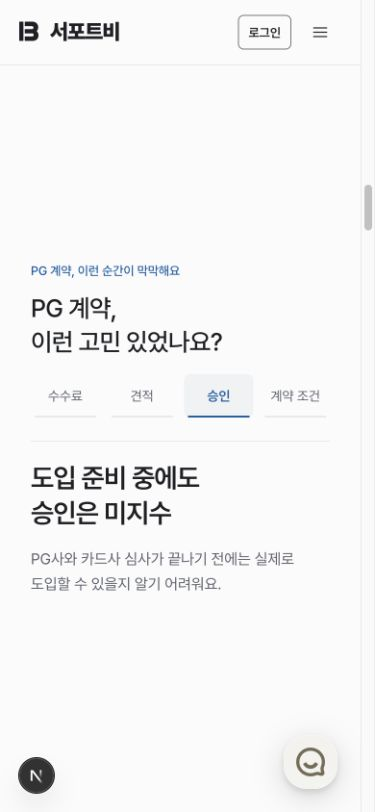
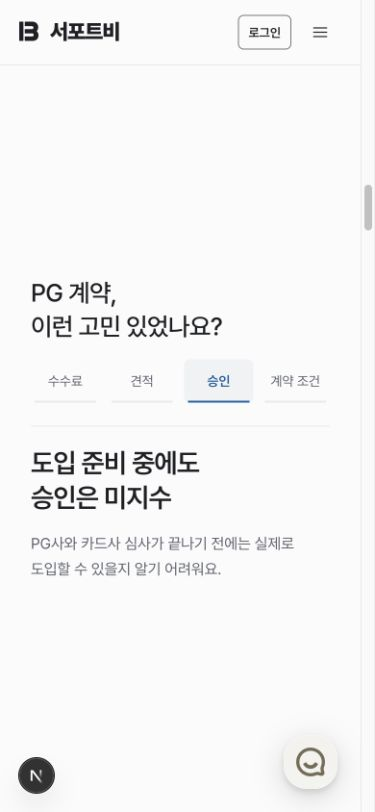
fix: 랜딩 문제 섹션 상단 문구 제거

diff --git a/components/landing/scroll-pinned/problem-story.module.css b/components/landing/scroll-pinned/problem-story.module.css
@@ -10,7 +10,6 @@
 }
 .heading { display: flex; flex-direction: column; align-items: flex-start; gap: 24px; }
 .heading h2 { font-size: clamp(28px, 3vw, 40px); line-height: 1.35; text-wrap: balance; }
-.eyebrow { font-size: 14px; line-height: 1.5; font-weight: 500; color: var(--md-sys-color-primary); }
 .progress { margin-top: 4px; width: 100%; max-width: 360px; }
 .rail { display: flex; gap: 8px; }
 .rail button { min-height: 44px; flex: 1; cursor: pointer; border-radius: 6px; padding: 12px 4px; background: transparent; color: var(--md-sys-color-on-surface-variant); font-size: 14px; line-height: 1.5; white-space: nowrap; position: relative; transition: color 240ms ease, background-color 240ms ease; }
@@ -36,7 +35,6 @@
   .story { grid-template-columns: 1fr; gap: 24px; }
   .heading { gap: 12px; }
   .heading h2 { font-size: 26px; }
-  .eyebrow { font-size: 13px; }
   .progress { margin-top: 4px; }
   .scene { gap: 16px; padding-block: 20px; }
   .scene h3 { font-size: 28px; }

diff --git a/components/landing/scroll-pinned/ScrollDrivenProblem.tsx b/components/landing/scroll-pinned/ScrollDrivenProblem.tsx
@@ -31,7 +31,6 @@ export function ScrollDrivenProblem({
         {({ activeStep, goToStep }) => (
           <div className={styles.story}>
             <div className={styles.heading}>
-              <p className={styles.eyebrow}>PG 계약, 이런 순간이 막막해요</p>
               <Fragment key="heading">{heading}</Fragment>
               <Fragment key="intro">{intro}</Fragment>
               <div className={styles.progress}>
